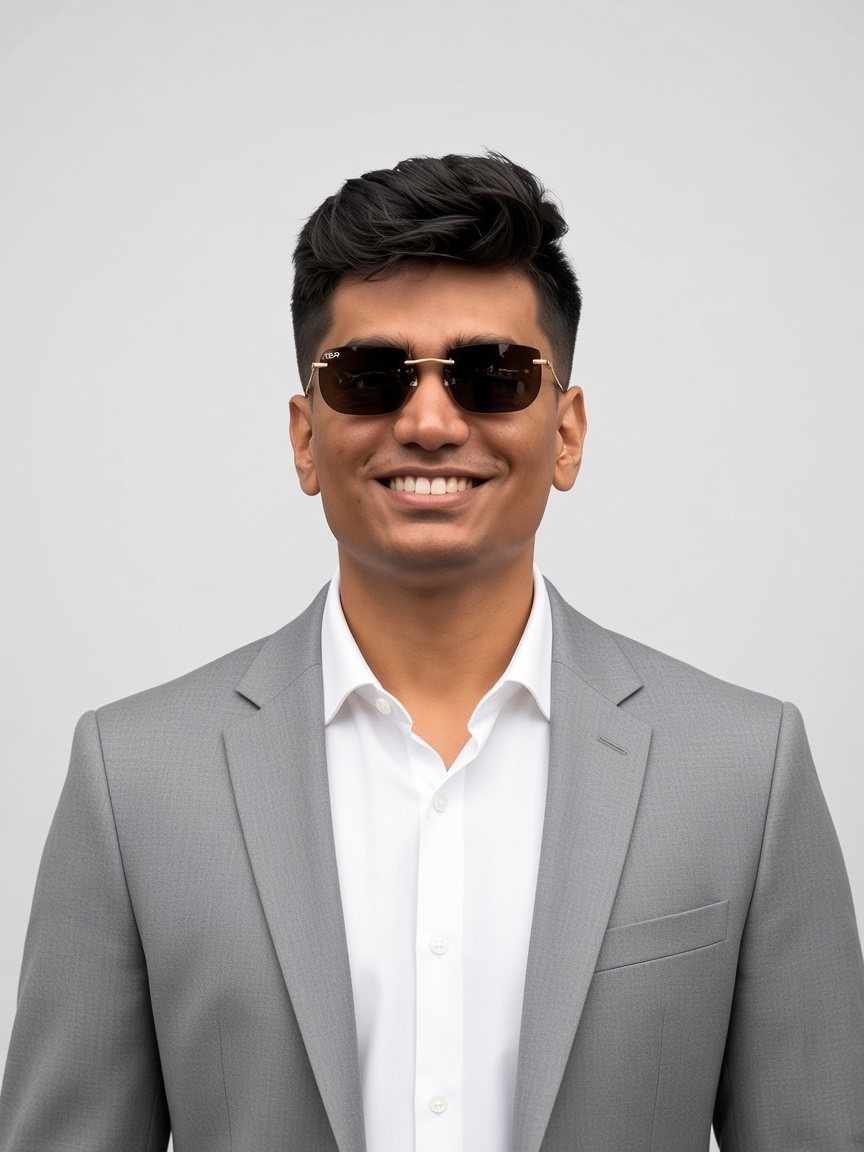
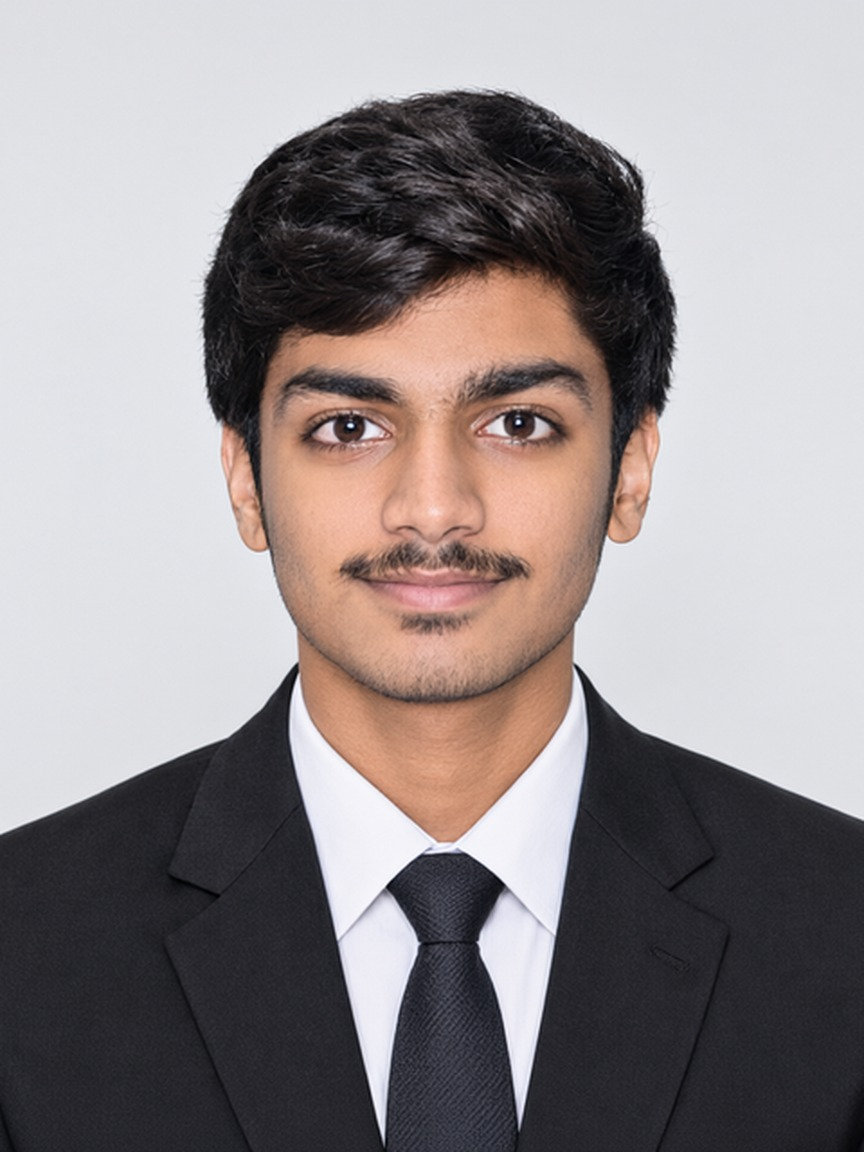
Add Sprint 1 UI screenshots, planning video and Om's photo to the wiki.

diff --git a/docs/wiki/Home.md b/docs/wiki/Home.md
@@ -224,6 +224,11 @@ Agent Mesh follows an end-to-end modular-monolith pipeline:
   <img src="https://github.com/Soumen2581/Capstone-Project/raw/master/docs/wiki/sprints/sprint-1-burndown.png" alt="Sprint 1 burndown chart — Sep 22 to Oct 19, 2026" width="900" />
 </p>
 
+## Sprint Planning
+
+### Sprint 1
+1. [Watch Sprint 1 Planning Video](https://www.youtube.com/watch?v=9tktC_Bq3pc)
+
 ## Retrospectives
 
 ### Sprint 0
@@ -299,6 +304,50 @@ From Sprint 0 — *Who we're building Agent Mesh for*:
 #### Sprint 1
 - [View Test Cases as PDF](https://github.com/Soumen2581/Capstone-Project/blob/master/docs/agile/test-cases/AgentMesh_Sprint1_TestCases.pdf) | [Download as Excel Workbook](https://github.com/Soumen2581/Capstone-Project/raw/master/docs/agile/test-cases/AgentMesh_Sprint1_TestCases.xlsx)
 
+### Prototype (UI Screenshots)
+
+#### Sprint 1
+Screenshots of the running application (local Docker stack), captured with Playwright:
+
+<p align="center">
+  <img src="https://github.com/Soumen2581/Capstone-Project/raw/master/docs/wiki/prototype/01-product-site.png" width="900" alt="Product site: landing page" /><br/>
+  <em>Product site: landing page</em>
+</p>
+
+<p align="center">
+  <img src="https://github.com/Soumen2581/Capstone-Project/raw/master/docs/wiki/prototype/02-empty-brief-blocked.png" width="900" alt="Empty brief: Start task stays disabled with a hint" /><br/>
+  <em>Empty brief: Start task stays disabled with a hint</em>
+</p>
+
+<p align="center">
+  <img src="https://github.com/Soumen2581/Capstone-Project/raw/master/docs/wiki/prototype/03-vague-brief-clarification.png" width="900" alt="Vague brief: the orchestrator asks for clarification instead of planning" /><br/>
+  <em>Vague brief: the orchestrator asks for clarification instead of planning</em>
+</p>
+
+<p align="center">
+  <img src="https://github.com/Soumen2581/Capstone-Project/raw/master/docs/wiki/prototype/04-brief-ready-to-submit.png" width="900" alt="Clear brief ready to submit" /><br/>
+  <em>Clear brief ready to submit</em>
+</p>
+
+<p align="center">
+  <img src="https://github.com/Soumen2581/Capstone-Project/raw/master/docs/wiki/prototype/05-spawned-agents-with-reasons.png" width="900" alt="Workflow: spawned agents with selection reasons, skipped steps and not-spawned agents" /><br/>
+  <em>Workflow: spawned agents with selection reasons, skipped steps and not-spawned agents</em>
+</p>
+
+<p align="center">
+  <img src="https://github.com/Soumen2581/Capstone-Project/raw/master/docs/wiki/prototype/06-agent-registry.png" width="900" alt="Agent registry and enrollment form" /><br/>
+  <em>Agent registry and enrollment form</em>
+</p>
+
+<p align="center">
+  <img src="https://github.com/Soumen2581/Capstone-Project/raw/master/docs/wiki/prototype/07-enroll-missing-capability-error.png" width="900" alt="Enrollment validation: at least one capability required" /><br/>
+  <em>Enrollment validation: at least one capability required</em>
+</p>
+
+<p align="center">
+  <img src="https://github.com/Soumen2581/Capstone-Project/raw/master/docs/wiki/prototype/08-enroll-duplicate-name-error.png" width="900" alt="Enrollment validation: duplicate agent name rejected" /><br/>
+  <em>Enrollment validation: duplicate agent name rejected</em>
+</p>
 ## Source Code (Sprint 0)
 
 - [Frontend](https://github.com/htmw/F2026-T2-Phoenix/tree/main/frontend)
